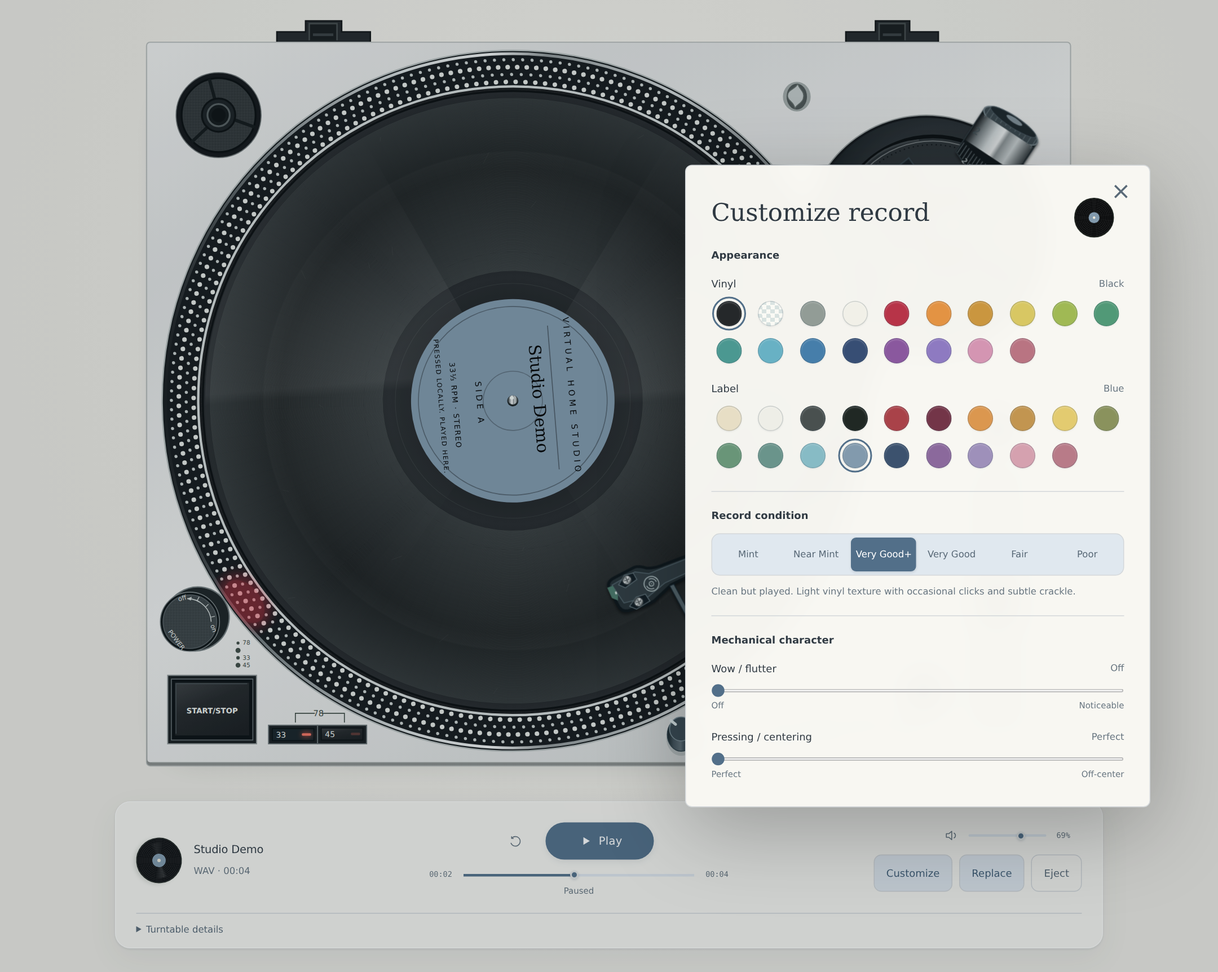
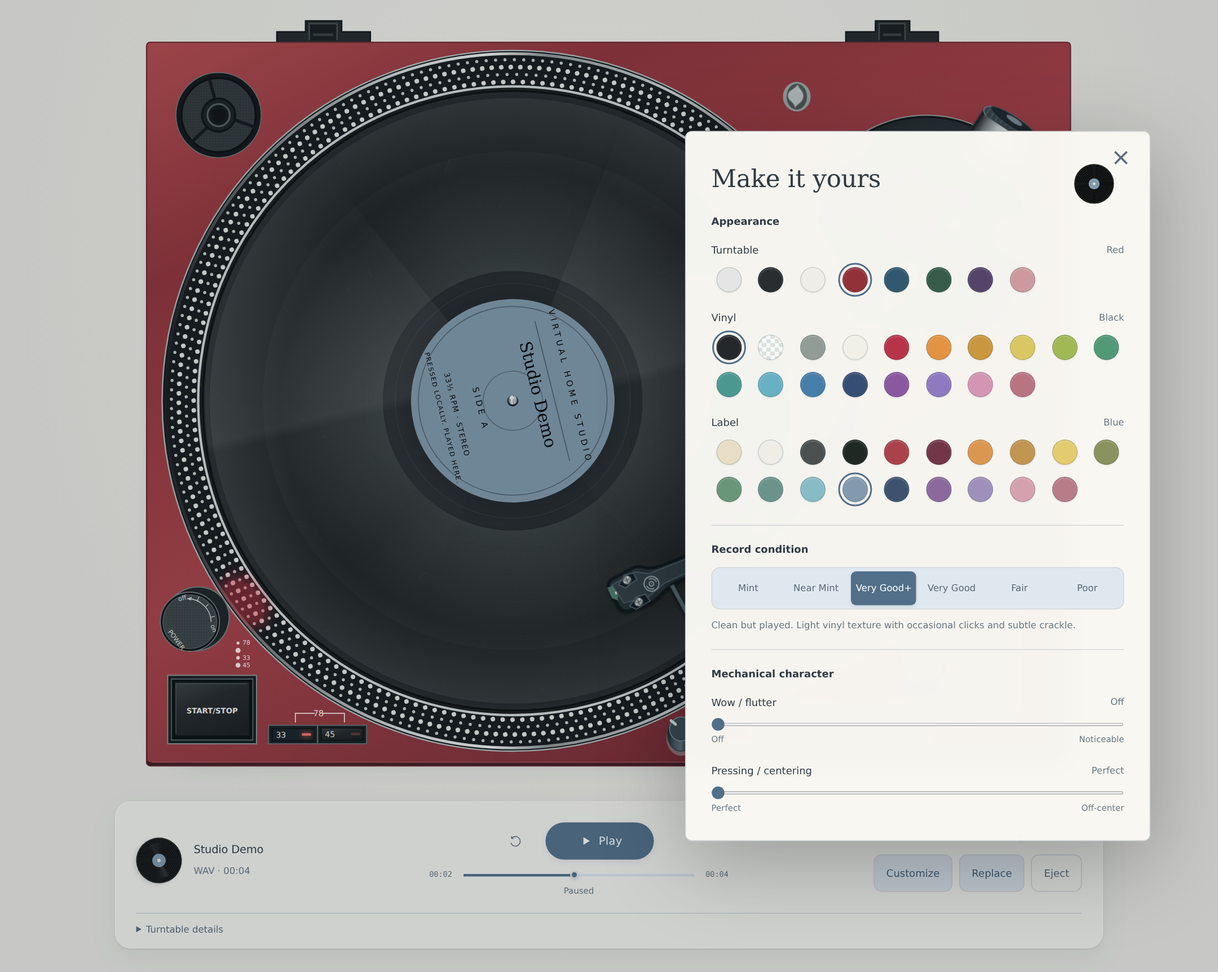
Add customizable turntable chassis finishes

diff --git a/static/index.html b/static/index.html
@@ -50,9 +50,9 @@
     <path d="M243 212v-13h31v-12h39v12h31v13Z"/><path d="M858 212v-13h32v-12h37v12h31v13Z"/>
     <path d="M278 208v-18h30v18M894 208v-18h28v18" fill="#15191a" stroke="#444a4b"/><path d="M282 202h22M898 202h20" stroke="#383e40" stroke-width="3"/>
   </g>
-  <rect x="102" y="210" width="999" height="783" rx="4" fill="url(#chassis-edge)" stroke="#b5b9b7" stroke-width="1"/>
+  <rect id="chassis-outline" x="102" y="210" width="999" height="783" rx="4" fill="url(#chassis-edge)" stroke="#b5b9b7" stroke-width="1"/>
   <rect x="103" y="211" width="997" height="778" rx="3" fill="url(#chassis)"/>
-  <path d="M108 989h986" stroke="#bcc1bd" stroke-opacity=".65"/>
+  <path id="chassis-seam" d="M108 989h986" stroke="#bcc1bd" stroke-opacity=".65"/>
   <!-- 45 adaptor and spare headshell socket: passive physical details. -->
   <g aria-label="45 RPM adapter storage; display detail">
     <circle cx="180" cy="289" r="46" fill="#101315" stroke="#707676" stroke-width="1"/>
@@ -139,12 +139,12 @@
     <circle cx="1022" cy="628" r="19" fill="#111719" stroke="#8a9493" stroke-width="1"/><circle cx="1022" cy="628" r="14.5" fill="url(#button)" stroke="#050b0c" stroke-width="1"/>
     <text x="1022" y="659" class="deck-lettering" text-anchor="middle" font-size="7">TEMPO RANGE</text><circle cx="1022" cy="628" r="24" fill="transparent"/><title id="range-label">Pitch range ±8%</title>
   </g>
-  <rect id="pitch-rail" x="997" y="670" width="50" height="281" rx="6" fill="#9b9f9c" stroke="#929994" stroke-width="1.2"/><rect x="1000" y="673" width="44" height="275" rx="4" fill="#bdc0bc"/>
+  <rect id="pitch-rail" x="997" y="670" width="50" height="281" rx="6" fill="#9b9f9c" stroke="#929994" stroke-width="1.2"/><rect id="pitch-rail-inset" x="1000" y="673" width="44" height="275" rx="4" fill="#bdc0bc"/>
   <path d="M1021 690v243" stroke="#303734" stroke-width="5.5" stroke-linecap="round"/><path d="M1023 691v241" stroke="#747d77" stroke-width=".7"/>
   <g id="pitch-ticks" stroke="#505a53" stroke-width="1.1"/>
   <g class="deck-lettering" font-size="10"><circle cx="975" cy="700" r="4.4" fill="none" stroke="currentColor" stroke-width="1"/><path d="M972.5 700h5" stroke="currentColor"/><circle cx="975" cy="924" r="4.4" fill="none" stroke="currentColor" stroke-width="1"/><path d="M972.5 924h5M975 921.5v5" stroke="currentColor"/></g>
-  <path d="M945 812h16m19 0h15" stroke="#5b645e" stroke-width="1"/><rect id="pitch-zero" x="965" y="809.5" width="11" height="4.5" rx="2" fill="#ec5663"/>
-  <g id="quartz" class="hardware-button" role="button" tabindex="0" aria-label="Quartz lock" aria-pressed="true"><path d="M942 834v57" stroke="#778079" stroke-width="1"/><circle cx="942" cy="912" r="19" fill="#181f20" stroke="#838e86" stroke-width="1"/><circle cx="942" cy="912" r="14.5" fill="url(#button)" stroke="#080e0f" stroke-width="1"/><text x="942" y="940" class="deck-lettering" text-anchor="middle" font-size="7">QUARTZ</text><circle cx="942" cy="912" r="24" fill="transparent"/><title>Lock pitch to the selected nominal RPM</title></g>
+  <path id="pitch-zero-mark" d="M945 812h16m19 0h15" stroke="#5b645e" stroke-width="1"/><rect id="pitch-zero" x="965" y="809.5" width="11" height="4.5" rx="2" fill="#ec5663"/>
+  <g id="quartz" class="hardware-button" role="button" tabindex="0" aria-label="Quartz lock" aria-pressed="true"><path id="quartz-mark" d="M942 834v57" stroke="#778079" stroke-width="1"/><circle cx="942" cy="912" r="19" fill="#181f20" stroke="#838e86" stroke-width="1"/><circle cx="942" cy="912" r="14.5" fill="url(#button)" stroke="#080e0f" stroke-width="1"/><text x="942" y="940" class="deck-lettering" text-anchor="middle" font-size="7">QUARTZ</text><circle cx="942" cy="912" r="24" fill="transparent"/><title>Lock pitch to the selected nominal RPM</title></g>
   <!-- The complete photographed arm silhouette rotates around its measured bearing. -->
   <g id="tonearm" role="slider" tabindex="0" aria-label="Tonearm groove position. Arrow keys seek, Home for outer groove, End for inner groove." aria-valuemin="0" aria-valuemax="100" aria-valuenow="0" aria-valuetext="On arm rest">
     <g id="arm-reference"><g id="arm-elevation" filter="url(#arm-shadow)">
@@ -193,7 +193,7 @@
       </div>
       <div class="hud-listening">
         <label class="hud-volume" for="volume"><svg viewBox="0 0 24 24" aria-hidden="true"><path d="M4 9h4l5-4v14l-5-4H4zM17 8c3 2 3 6 0 8"/></svg><span class="sr-only">Output volume</span><input id="volume" type="range" min="0" max="1" step=".01" value="0.69" aria-label="Output volume"><output id="volume-value">69%</output></label>
-        <div class="hud-actions" role="group" aria-label="Record actions"><button id="customize-open" class="record-action" aria-haspopup="dialog" aria-label="Customize record">Customize</button><button id="load" class="record-action" aria-label="Choose a record"><span>Choose a record</span></button><button id="eject" class="record-action record-action-quiet" aria-label="Eject record" disabled>Eject</button></div>
+        <div class="hud-actions" role="group" aria-label="Record actions"><button id="customize-open" class="record-action" aria-haspopup="dialog" aria-label="Customize turntable and record">Customize</button><button id="load" class="record-action" aria-label="Choose a record"><span>Choose a record</span></button><button id="eject" class="record-action record-action-quiet" aria-label="Eject record" disabled>Eject</button></div>
         <input id="file-input" type="file" accept=".mp3,.wav,audio/mpeg,audio/wav,audio/x-wav" hidden>
       </div>
       <details id="turntable-details"><summary>Turntable details</summary><div class="hud-status"><span id="physical-rpm" class="actual-rpm">Actual: 0.0 RPM</span><span class="status"><span id="status-dot"></span><span id="status" role="status">Ready when you are</span></span><span class="hud-physical"><span id="speed-readout">NO SPEED SELECTED</span><span id="pitch-readout">QUARTZ LOCKED</span><button id="cover-toggle" class="text-button" aria-pressed="false">Cover open</button></span></div></details>
@@ -201,10 +201,11 @@
     <p id="notice" class="notice" role="status"></p>
   </main>
   <dialog id="customize" aria-labelledby="customize-title">
-    <button id="customize-close" class="dialog-close" aria-label="Close record customization">×</button>
-    <span id="customize-preview" class="mini-record loaded customize-preview" aria-hidden="true"></span><h2 id="customize-title">Customize record</h2>
+    <button id="customize-close" class="dialog-close" aria-label="Close customization">×</button>
+    <span id="customize-preview" class="mini-record loaded customize-preview" aria-hidden="true"></span><h2 id="customize-title">Make it yours</h2>
     <section class="customize-section" aria-labelledby="appearance-title">
       <h3 id="appearance-title">Appearance</h3>
+      <fieldset class="palette"><legend>Turntable <span id="turntable-selection">Silver</span></legend><div id="turntable-swatches" class="swatches"></div></fieldset>
       <fieldset class="palette"><legend>Vinyl <span id="vinyl-selection">Black</span></legend><div id="vinyl-swatches" class="swatches"></div></fieldset>
       <fieldset class="palette"><legend>Label <span id="label-selection">Blue</span></legend><div id="label-swatches" class="swatches"></div></fieldset>
     </section>
@@ -282,8 +283,8 @@
       </details>
     </section>
     <section class="help-customize" aria-labelledby="help-customize-title">
-      <h3 id="help-customize-title">Make it yours <span>Customize Record</span></h3>
-      <ul><li>Vinyl color</li><li>Label color</li><li>Record condition</li><li>Mechanical character</li></ul>
+      <h3 id="help-customize-title">Make it yours <span>Customize</span></h3>
+      <ul><li>Turntable color</li><li>Vinyl color</li><li>Label color</li><li>Record condition</li><li>Mechanical character</li></ul>
       <p>Condition changes wear, crackle, pops and groove character.</p>
     </section>
   </dialog>

diff --git a/static/record-customization.js b/static/record-customization.js
@@ -1,6 +1,17 @@
 import { CONDITIONS, CONDITION_DESCRIPTIONS } from './condition-profiles.js';
 
 const $ = id => document.getElementById(id);
+// Paint changes belong to the chassis; chrome, controls and media keep their materials.
+export const FINISHES = Object.freeze({
+  Silver: { surface: ['#f1f1ef', '#e4e5e4', '#f2f2f0', '#d9dbda'], edge: ['#dadcda', '#c1c4c2', '#8a8d8b'], rail: ['#9b9f9c', '#bdc0bc'], ink: '#3e4a43', border: '#b5b9b7', seam: '#bcc1bd', ticks: '#505a53', zero: '#5b645e', quartz: '#778079' },
+  Black: { surface: ['#414548', '#292d30', '#383d40', '#202427'], edge: ['#353a3d', '#22272a', '#101416'], rail: ['#171c1f', '#33393d'], ink: '#e5e9e7', border: '#50585b', seam: '#626b6f' },
+  White: { surface: ['#fcfbf7', '#eeede7', '#fffef9', '#deded7'], edge: ['#e7e7e0', '#cccec6', '#92988f'], rail: ['#abb0a7', '#d2d5cd'], ink: '#3e4a43', border: '#babfb5', seam: '#c7cbc2' },
+  Red: { surface: ['#b84a4d', '#923137', '#ad4046', '#75272e'], edge: ['#883138', '#68232b', '#40191f'], rail: ['#411e25', '#6b3037'], ink: '#fff0e8', border: '#68232b', seam: '#cf696d' },
+  Blue: { surface: ['#497894', '#30586f', '#406d88', '#25465c'], edge: ['#31566d', '#243f53', '#142a39'], rail: ['#182e3f', '#2c4d63'], ink: '#edf5f7', border: '#26485c', seam: '#7096ab' },
+  Green: { surface: ['#577d6a', '#365b49', '#49715b', '#294938'], edge: ['#375946', '#284333', '#192d23'], rail: ['#20372a', '#365540'], ink: '#eef4e6', border: '#2d4c3a', seam: '#80a08c' },
+  Purple: { surface: ['#78648e', '#564369', '#6a567e', '#413250'], edge: ['#564367', '#3f314d', '#281e32'], rail: ['#30253b', '#514061'], ink: '#f6eef8', border: '#453552', seam: '#9a85af' },
+  Rose: { surface: ['#e6b9ba', '#cd999e', '#ddb0b4', '#bc878f'], edge: ['#c59299', '#a77680', '#794e59'], rail: ['#a77984', '#c79aa2'], ink: '#412a34', border: '#a67680', seam: '#ecc6c9' },
+});
 export const VINYL = Object.freeze({
   Black: ['#0b0c0d', '#25282a', 1], Clear: ['#cadbd3', '#f4fbf8', .22],
   Smoke: ['#46504c', '#929c96', .62], White: ['#c5c8c1', '#f1f0e8', 1],
@@ -29,13 +40,13 @@ export function contrastColor(hex) {
   return (light + .05) / .05 >= 1.05 / (light + .05) ? '#000000' : '#ffffff';
 }
 export function setupCustomization(change) {
-  for (const [id, values, key] of [['vinyl-swatches', VINYL, 'vinylColor'], ['label-swatches', LABELS, 'labelColor']]) {
+  for (const [id, values, key] of [['turntable-swatches', FINISHES, 'turntableColor'], ['vinyl-swatches', VINYL, 'vinylColor'], ['label-swatches', LABELS, 'labelColor']]) {
     for (const [name, color] of Object.entries(values)) {
       const button = document.createElement('button');
       button.className = 'swatch'; button.type = 'button'; button.dataset.name = name;
-      button.setAttribute('aria-label', `${id === 'vinyl-swatches' ? 'Vinyl' : 'Label'}: ${name}`);
+      button.setAttribute('aria-label', `${id === 'turntable-swatches' ? 'Turntable' : id === 'vinyl-swatches' ? 'Vinyl' : 'Label'}: ${name}`);
       button.setAttribute('aria-pressed', 'false'); button.title = name;
-      button.style.setProperty('--swatch', Array.isArray(color) ? color[1] : color);
+      button.style.setProperty('--swatch', color.surface ? color.surface[1] : Array.isArray(color) ? color[1] : color);
       if (name === 'Clear') button.classList.add('clear-swatch');
       button.addEventListener('click', () => change(key, name));
       $(id).append(button);
@@ -70,7 +81,27 @@ export function setupCustomization(change) {
   $('record-wear').append(marks);
 }
 let previousMaterial = '';
+let previousFinish = '';
 export function renderMaterial(state) {
+  if (state.turntableColor !== previousFinish) {
+    previousFinish = state.turntableColor;
+    const finish = FINISHES[state.turntableColor];
+    for (const [id, colors] of [['chassis', finish.surface], ['chassis-edge', finish.edge]]) {
+      $(id).querySelectorAll('stop').forEach((stop, i) => stop.setAttribute('stop-color', colors[i]));
+    }
+    $('chassis-outline').setAttribute('stroke', finish.border);
+    $('chassis-seam').setAttribute('stroke', finish.seam);
+    $('pitch-rail').setAttribute('fill', finish.rail[0]);
+    $('pitch-rail').setAttribute('stroke', state.turntableColor === 'Silver' ? '#929994' : finish.border);
+    $('pitch-rail-inset').setAttribute('fill', finish.rail[1]);
+    $('pitch-ticks').setAttribute('stroke', finish.ticks || finish.ink);
+    $('pitch-zero-mark').setAttribute('stroke', finish.zero || finish.ink);
+    $('quartz-mark').setAttribute('stroke', finish.quartz || finish.ink);
+    $('deck').style.setProperty('--deck-ink', finish.ink);
+    $('deck').setAttribute('aria-label', `${state.turntableColor} Virtual Home Studio VHS-42069 turntable`);
+    $('turntable-selection').textContent = state.turntableColor;
+    $('turntable-swatches').querySelectorAll('button').forEach(button => button.setAttribute('aria-pressed', button.dataset.name === state.turntableColor));
+  }
   for (const input of $('condition').querySelectorAll('input')) input.checked = input.value === state.condition;
   for (const key of ['wow', 'centering']) if ($(key).value !== String(state[key])) $(key).value = state[key];
   const key = [state.vinylColor, state.labelColor, state.condition].join('|');

diff --git a/static/app.js b/static/app.js
@@ -5,7 +5,7 @@ import { NOMINAL_RPM, deriveSpeed, derivePhysical } from './simulation-state.js'
 import { ListeningHUD } from './listening-hud.js';
 import { CartridgeOutput } from './audio-chain.js';
 import { RecordLifecycle } from './record-lifecycle.js';
-import { setupCustomization, renderMaterial, VINYL, LABELS } from './record-customization.js';
+import { setupCustomization, renderMaterial, VINYL, LABELS, FINISHES } from './record-customization.js';
 
 const $ = (id) => document.getElementById(id);
 const SVG_NS = 'http://www.w3.org/2000/svg';
@@ -59,7 +59,7 @@ class Turntable extends EventTarget {
       tonearmAngle: geometry.rest, stylusRaised: true, tonearmMotion: null,
       actualRate: 0, motorActualRate: 0, motorRamping: false, rotation: 0, recordRotation: 0,
       targetLight: false, coverClosed: false,
-      vinylColor: 'Black', labelColor: 'Blue', condition: DEFAULT_CONDITION, surface: true, contacts: true, wow: 0, centering: 0, cartridge: true,
+      turntableColor: 'Silver', vinylColor: 'Black', labelColor: 'Blue', condition: DEFAULT_CONDITION, surface: true, contacts: true, wow: 0, centering: 0, cartridge: true,
       volume: 0.69, loading: false, dragging: false, scratching: false, seeking: false, seekTarget: null,
       directScrubbing: false, scrubVelocity: 0, preScrubTransportState: null,
     };
@@ -415,14 +415,15 @@ class Turntable extends EventTarget {
     this.engine?.port.postMessage({ type: 'settings', settings: { surface, contacts, condition, wow, centering } });
   }
   customize(key, value) {
-    if (key === 'vinylColor') { if (!Object.hasOwn(VINYL, value)) return; }
+    if (key === 'turntableColor') { if (!Object.hasOwn(FINISHES, value)) return; }
+    else if (key === 'vinylColor') { if (!Object.hasOwn(VINYL, value)) return; }
     else if (key === 'labelColor') { if (!Object.hasOwn(LABELS, value)) return; }
     else if (key === 'condition') { if (!Object.hasOwn(CONDITIONS, value)) return; }
     else if (['surface', 'contacts', 'cartridge'].includes(key)) { if (typeof value !== 'boolean') return; }
     else if (['wow', 'centering'].includes(key)) { if (!Number.isFinite(value)) return; value = clamp(value, 0, 1); }
     else return;
     this.state[key] = value;
-    this.sendSettings();
+    if (key !== 'turntableColor') this.sendSettings();
     if (key === 'cartridge') this.chain?.color(value);
     this.emit();
   }

diff --git a/static/style.css b/static/style.css
@@ -20,7 +20,7 @@ h1{font-family:Georgia,'Times New Roman',serif;font-weight:400;font-size:clamp(3
 .turntable-stage:after{content:'';position:absolute;z-index:-1;inset:14% 6% 5%;box-shadow:0 35px 45px #20231d42;border-radius:35%}
 .deck-wrap{position:relative;width:100%;line-height:0}
 #deck{display:block;width:100%;height:auto;overflow:visible;user-select:none;-webkit-user-select:none}
-.deck-lettering{font-family:Arial,Helvetica,sans-serif;fill:#3e4a43;color:#3e4a43;user-select:none}
+.deck-lettering{font-family:Arial,Helvetica,sans-serif;fill:var(--deck-ink,#3e4a43);color:var(--deck-ink,#3e4a43);user-select:none}
 .hardware-button{cursor:pointer;outline:none}
 .hardware-button:hover{filter:brightness(1.22)}
 .hardware-button:active{filter:brightness(.85)}

diff --git a/tests/customization.py b/tests/customization.py
@@ -62,6 +62,7 @@ def run():
         page.goto('http://127.0.0.1:42069')
         page.wait_for_function('window.turntable')
         state = lambda: page.evaluate('turntable.state')
+        check(state()['turntableColor'] == 'Silver', 'A fresh session preserves the original silver chassis')
         check(state()['condition'] == 'Very Good+', 'A fresh session uses Very Good+ before loading or opening customization')
         check(state()['volume'] == .69 and page.locator('#volume').input_value() == '0.69' and page.locator('#volume-value').inner_text() == '69%', 'Fresh state and HUD start at 69% output volume')
         check(state()['vinylColor'] == 'Black' and state()['labelColor'] == 'Blue', 'Default material remains black vinyl with a blue label')
@@ -79,6 +80,20 @@ def run():
         check(page.locator('#condition-help').get_attribute('aria-live') == 'polite' and page.locator('#condition-help').count() == 1, 'One polite live description serves the active condition')
         check(page.locator('#condition input').evaluate_all('els=>els.map(el=>el.value)') == CONDITIONS, 'The selector exposes exactly six full condition names')
         check(page.locator('#customize select, #customize input[type=checkbox]').count() == 0, 'The primary panel contains neither a condition dropdown nor feature toggles')
+        finishes = ['Silver', 'Black', 'White', 'Red', 'Blue', 'Green', 'Purple', 'Rose']
+        fixed_materials = page.locator('#chrome, #button, #vinyl, #record-label').evaluate_all('els=>els.map(el=>el.outerHTML)')
+        for finish in finishes:
+            before = state()['position']
+            button = page.get_by_role('button', name=f'Turntable: {finish}', exact=True)
+            button.click()
+            check(state()['turntableColor'] == finish and button.get_attribute('aria-pressed') == 'true' and page.locator('#turntable-swatches [aria-pressed=true]').count() == 1, f'{finish}: chassis finish has one authoritative, accessible selection')
+            check(state()['position'] >= before and state()['stylusContact'] and state()['platterRunning'], f'{finish}: changing the chassis preserves active playback')
+        check(page.locator('#chrome, #button, #vinyl, #record-label').evaluate_all('els=>els.map(el=>el.outerHTML)') == fixed_materials, 'Chassis finishes preserve chrome, physical controls, vinyl and label materials')
+        page.evaluate("turntable.controls.customize('turntableColor', 'Invalid')")
+        check(state()['turntableColor'] == 'Rose', 'Unknown chassis finishes are rejected by the model')
+        black = page.get_by_role('button', name='Turntable: Black', exact=True)
+        black.focus(); page.keyboard.press('Enter')
+        check(state()['turntableColor'] == 'Black' and page.locator('#deck').get_attribute('aria-label').startswith('Black '), 'Keyboard activation updates the finish and accessible deck description')
         previous = state()['position']
         for condition in CONDITIONS + ['Poor', 'Mint', 'Very Good+']:
             page.get_by_role('radio', name=condition, exact=True).check()
@@ -133,15 +148,16 @@ def run():
         check(state()['condition'] == 'Fair' and page.evaluate('__conditionSettings.condition') == 'Fair' and float(page.locator('#record-wear').get_attribute('opacity')) == wear['Fair'], 'Direct replacement preserves the chosen condition in state, audio and visual wear')
         page.locator('#eject').click()
         page.wait_for_function("turntable.state.recordPhase==='empty'")
-        check(state()['condition'] == 'Fair', 'Ejection preserves the chosen condition')
+        check(state()['condition'] == 'Fair' and state()['turntableColor'] == 'Black', 'Ejection preserves record condition and turntable finish')
         page.locator('#file-input').set_input_files(path)
         page.wait_for_function("turntable.state.recordPhase==='ready'")
         page.locator('#customize-open').click()
+        check(state()['turntableColor'] == 'Black' and page.get_by_role('button', name='Turntable: Black', exact=True).get_attribute('aria-pressed') == 'true', 'Replacement and eject/reload retain the selected chassis finish')
         check(state()['condition'] == 'Fair' and page.get_by_role('radio', name='Fair', exact=True).is_checked() and page.locator('#condition-help').inner_text() == DESCRIPTIONS['Fair'], 'Loading after eject preserves the selection and description')
         check(float(page.locator('#record-wear').get_attribute('opacity')) == wear['Fair'] and page.evaluate('__conditionSettings.condition') == 'Fair', 'Loading after eject preserves the same visual and audio profile')
         page.reload()
         page.wait_for_function('window.turntable')
-        check(state()['condition'] == 'Very Good+' and state()['volume'] == .69, 'A new page resets condition and volume to Very Good+ and 69%')
+        check(state()['condition'] == 'Very Good+' and state()['volume'] == .69 and state()['turntableColor'] == 'Silver', 'A new page resets condition, volume and chassis to their defaults')
         check(not errors, 'Customization produces no browser exceptions')
         browser.close()
     (artifacts / 'customization.json').write_text(json.dumps({'total':len(checks), 'checks':checks}, indent=2) + '\n')

diff --git a/tests/polish.py b/tests/polish.py
@@ -86,7 +86,7 @@ def run():
             check(all(b['height']>=44 for b in boxes) and max(b['height'] for b in boxes)-min(b['height'] for b in boxes)<1,f'{name}: all record actions have matching accessible heights')
             styles=page.locator('.record-action').evaluate_all("els=>els.map(el=>{const s=getComputedStyle(el);return [s.fontSize,s.borderRadius,s.borderWidth].join('|')})")
             check(len(set(styles))==1,f'{name}: record actions share typography, borders, and corners')
-            check(page.locator('#customize-open').get_attribute('aria-label')=='Customize record', f'{name}: concise visual action keeps its full accessible name')
+            check(page.locator('#customize-open').get_attribute('aria-label')=='Customize turntable and record', f'{name}: concise visual action keeps its full accessible name')
             page.screenshot(path=str(artifacts/f'polish-{name}.png'),full_page=True)
             if name=='mobile':
                 page.evaluate("drag('dragenter');drag('dragover')");page.wait_for_timeout(200)

diff --git a/AGENTS.md b/AGENTS.md
@@ -44,7 +44,7 @@ Paths below are relative to the repository root; module names are under `static/
 | `static/listening-hud.js` | Snapshot presentation; actions delegate to the model command API |
 | `static/progress-control.js` | Timeline pointer capture, latest-event drag, click and hover preview |
 | `static/record-lifecycle.js` | Validation/decode, serialized removal/insertion, stale-request rejection |
-| `static/record-customization.js` | Material palettes, condition UI and coordinated record/thumbnail appearance |
+| `static/record-customization.js` | Chassis finishes, material palettes, condition UI and coordinated record/thumbnail appearance |
 | `static/style.css` | Hardware and software presentation, hit areas and responsive layout |
 | `tests/` | Standalone browser scripts, Node DSP suites and generated-fixture helpers |
 | `docs/` | Focused engineering diagnostics and public screenshots |
@@ -133,7 +133,8 @@ Each button toggles independently; the printed 78 bracket is inert. Tempo Range 
 
 ## Presentation and keyboard
 
-- Preserve the established geometry, silver chassis and dark physical controls.
+- Preserve the established geometry and dark physical controls. Silver is the default chassis finish; the eight turntable palettes recolor chassis paint, fader surround and contrasting printed markings only.
+- `turntableColor` belongs to the model, persists across media changes within the page session, and never changes audio settings, chrome, controls or vinyl/label colors.
 - Hardware controls retain physical shapes; transparent hit areas must stay invisible.
 - Use muted-blue software accents. Default media is black vinyl with a blue label.
 - Site, chassis, slipmat and record-label identity is **Virtual Home Studio**.

diff --git a/README.md b/README.md
@@ -26,12 +26,13 @@ Open **http://127.0.0.1:42069**. Stop the server with Ctrl+C.
 - MP3/WAV playback with assisted Play or manual tonearm control.
 - 33⅓ / 45 / 78 RPM, pitch adjustment and Quartz lock.
 - Vinyl scratching, direct scrubbing and audible motor transitions.
-- Vinyl/label colors, record condition, surface texture and cartridge character.
+- Eight turntable finishes, vinyl/label colors, record condition, surface texture and cartridge character.
+- Open **Customize** to change the chassis color, including Black, Red, and the default Silver. Colors stay selected through record changes within the session.
 
 <details>
-<summary>Record customization</summary>
+<summary>Turntable and record customization</summary>
 
-![Record customization](docs/images/customize-record.png)
+![Turntable and record customization](docs/images/customize-record.png)
 
 </details>
 
@@ -46,7 +47,7 @@ Open **http://127.0.0.1:42069**. Stop the server with Ctrl+C.
 | 33 + 45 | Press both for 78 RPM |
 | Pitch / Quartz | Adjust speed / lock to the selected nominal RPM |
 | Return arm | Lift and park the arm; platter stays independent |
-| Customize / Replace | Change the record's look and sound / choose another file |
+| Customize / Replace | Change the turntable finish and record’s look and sound / choose another file |
 
 Open **How to Play** for the visual cheat sheet and keyboard shortcuts.
 

diff --git a/REFERENCE.md b/REFERENCE.md
@@ -2,7 +2,7 @@
 
 ## Hardware model
 
-The VHS-42069 is a fictional direct-drive deck with a manual S-shaped tonearm, two speed buttons, pitch adjustment and Quartz lock. Its silver chassis, dark controls and original vinyl-disc branding form the public product identity.
+The VHS-42069 is a fictional direct-drive deck with a manual S-shaped tonearm, two speed buttons, pitch adjustment and Quartz lock. Its chassis defaults to Silver, with Black, White, Red, Blue, Green, Purple and Rose finishes available in Customize. Dark controls and original vinyl-disc branding retain the public product identity. The selected finish persists through media changes within the page session; reloading restores Silver.
 
 Geometry below defines the simulator's established layout, not dimensions for a commercial product. Developer ownership and interaction rules are in [AGENTS.md](AGENTS.md).
 
